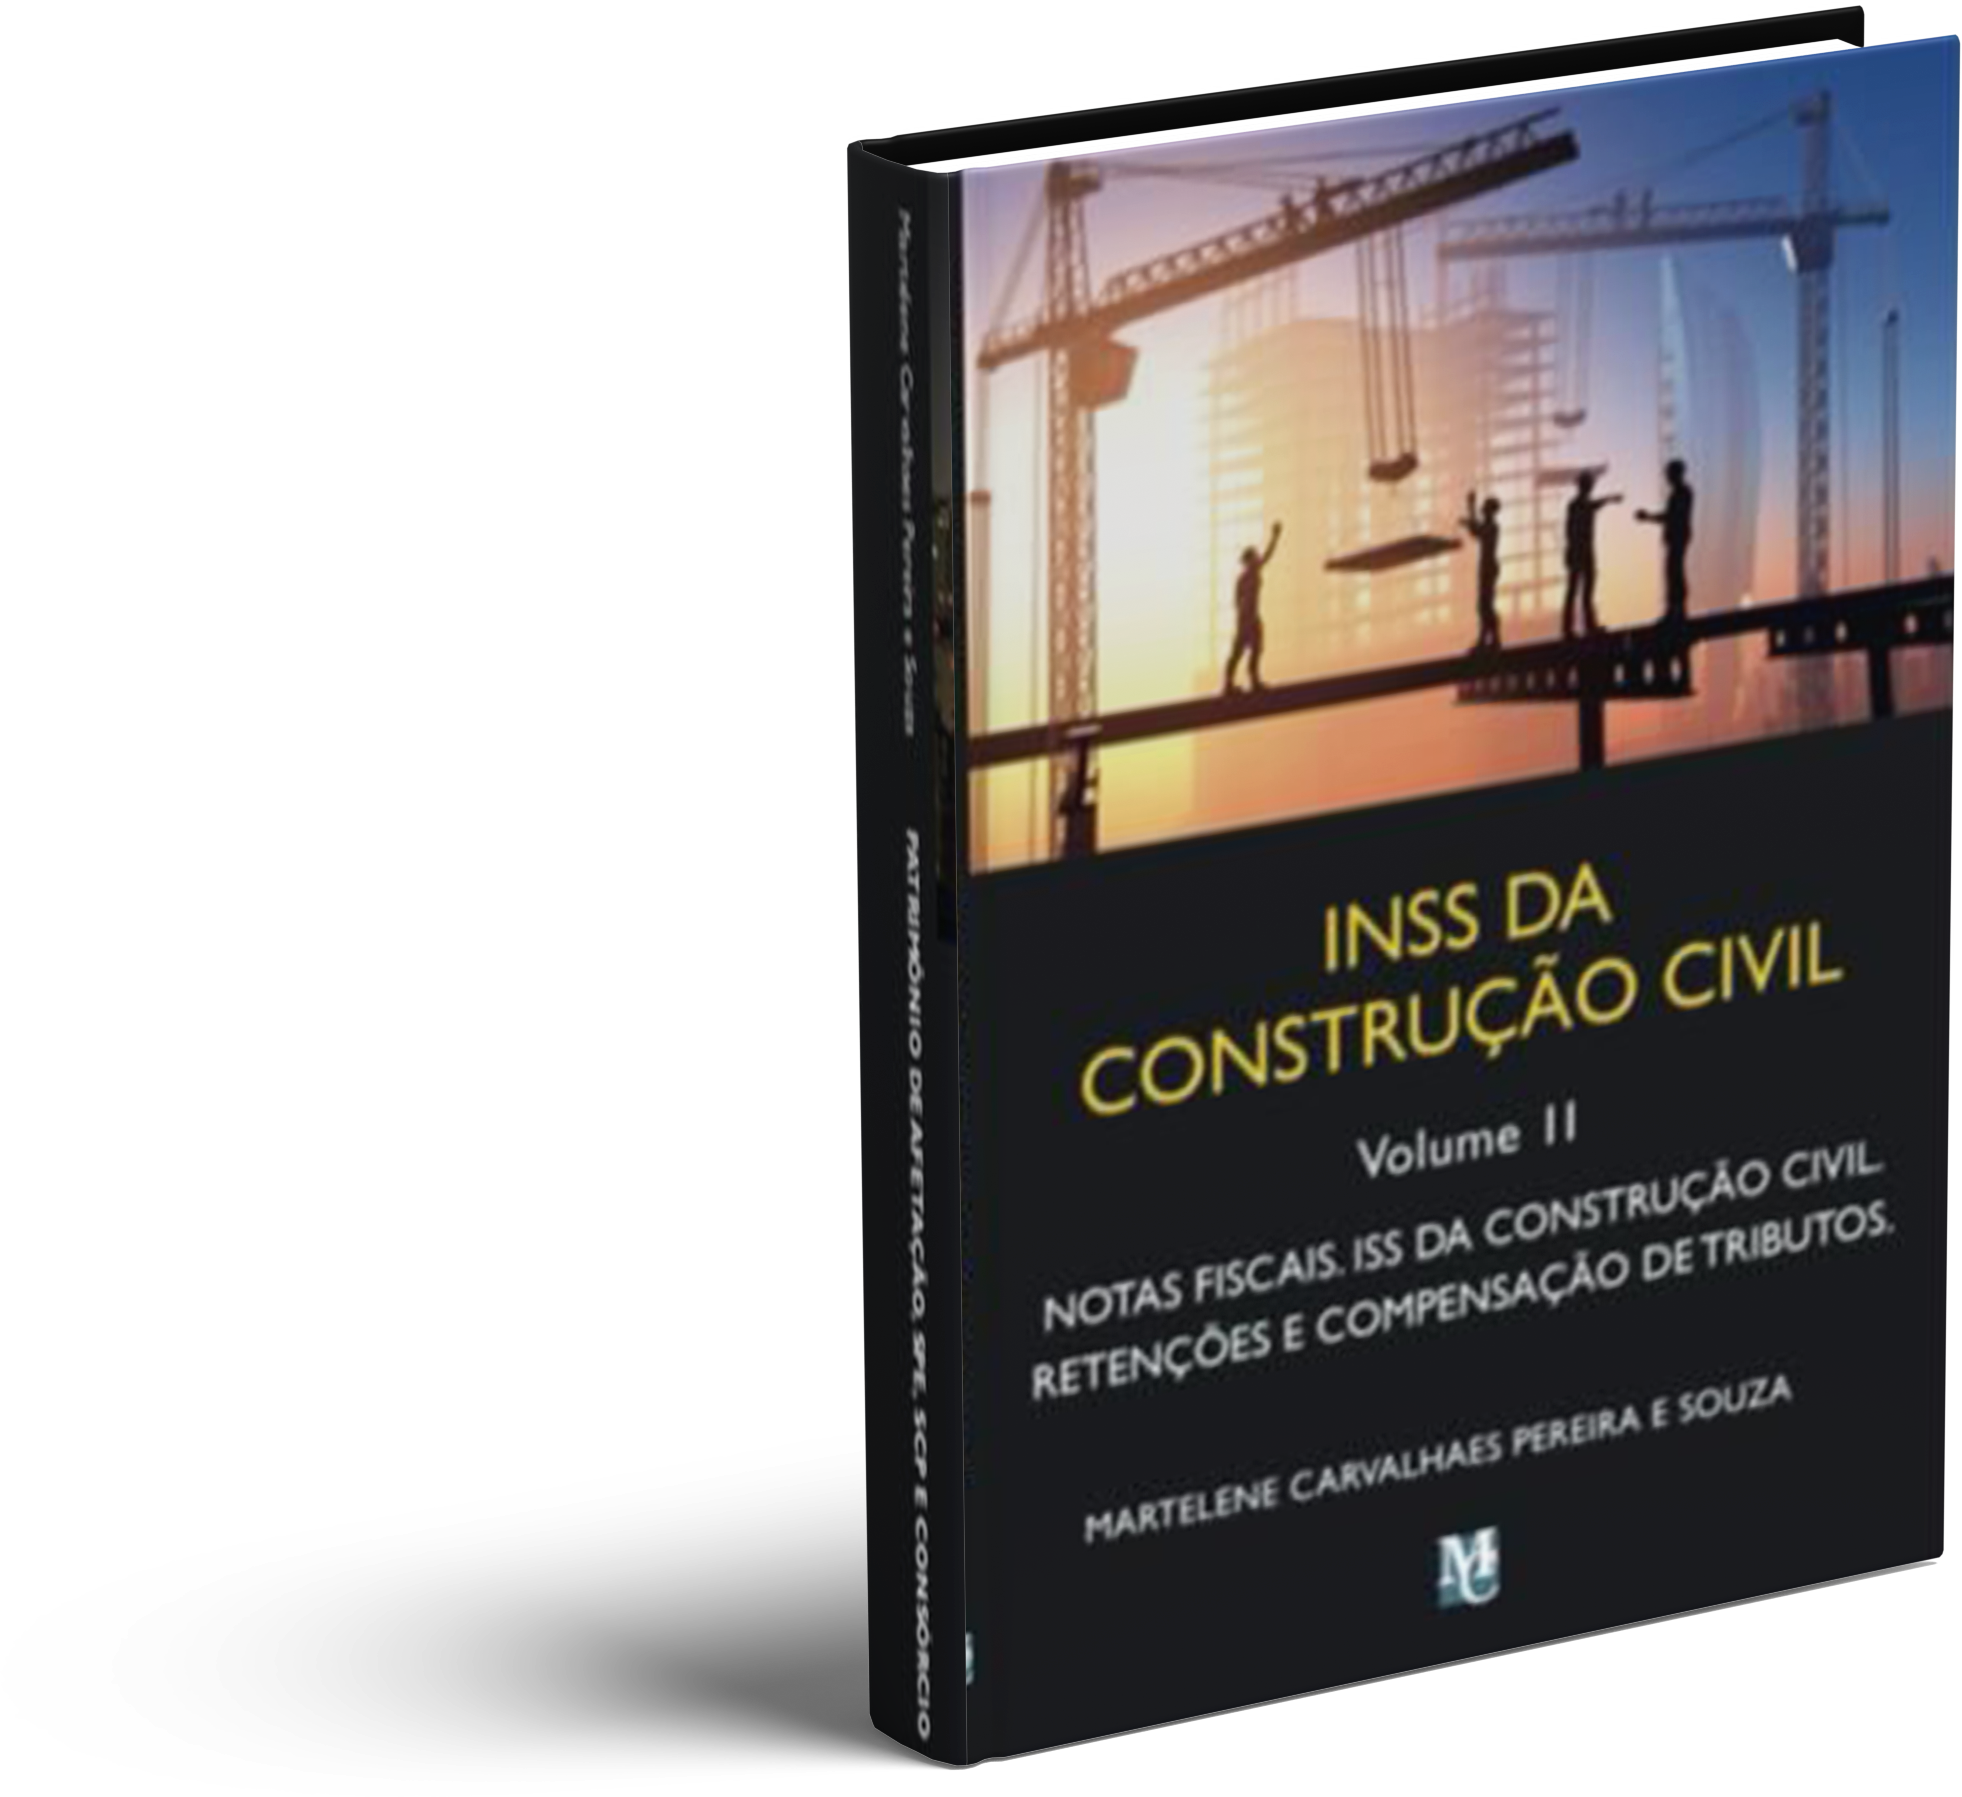
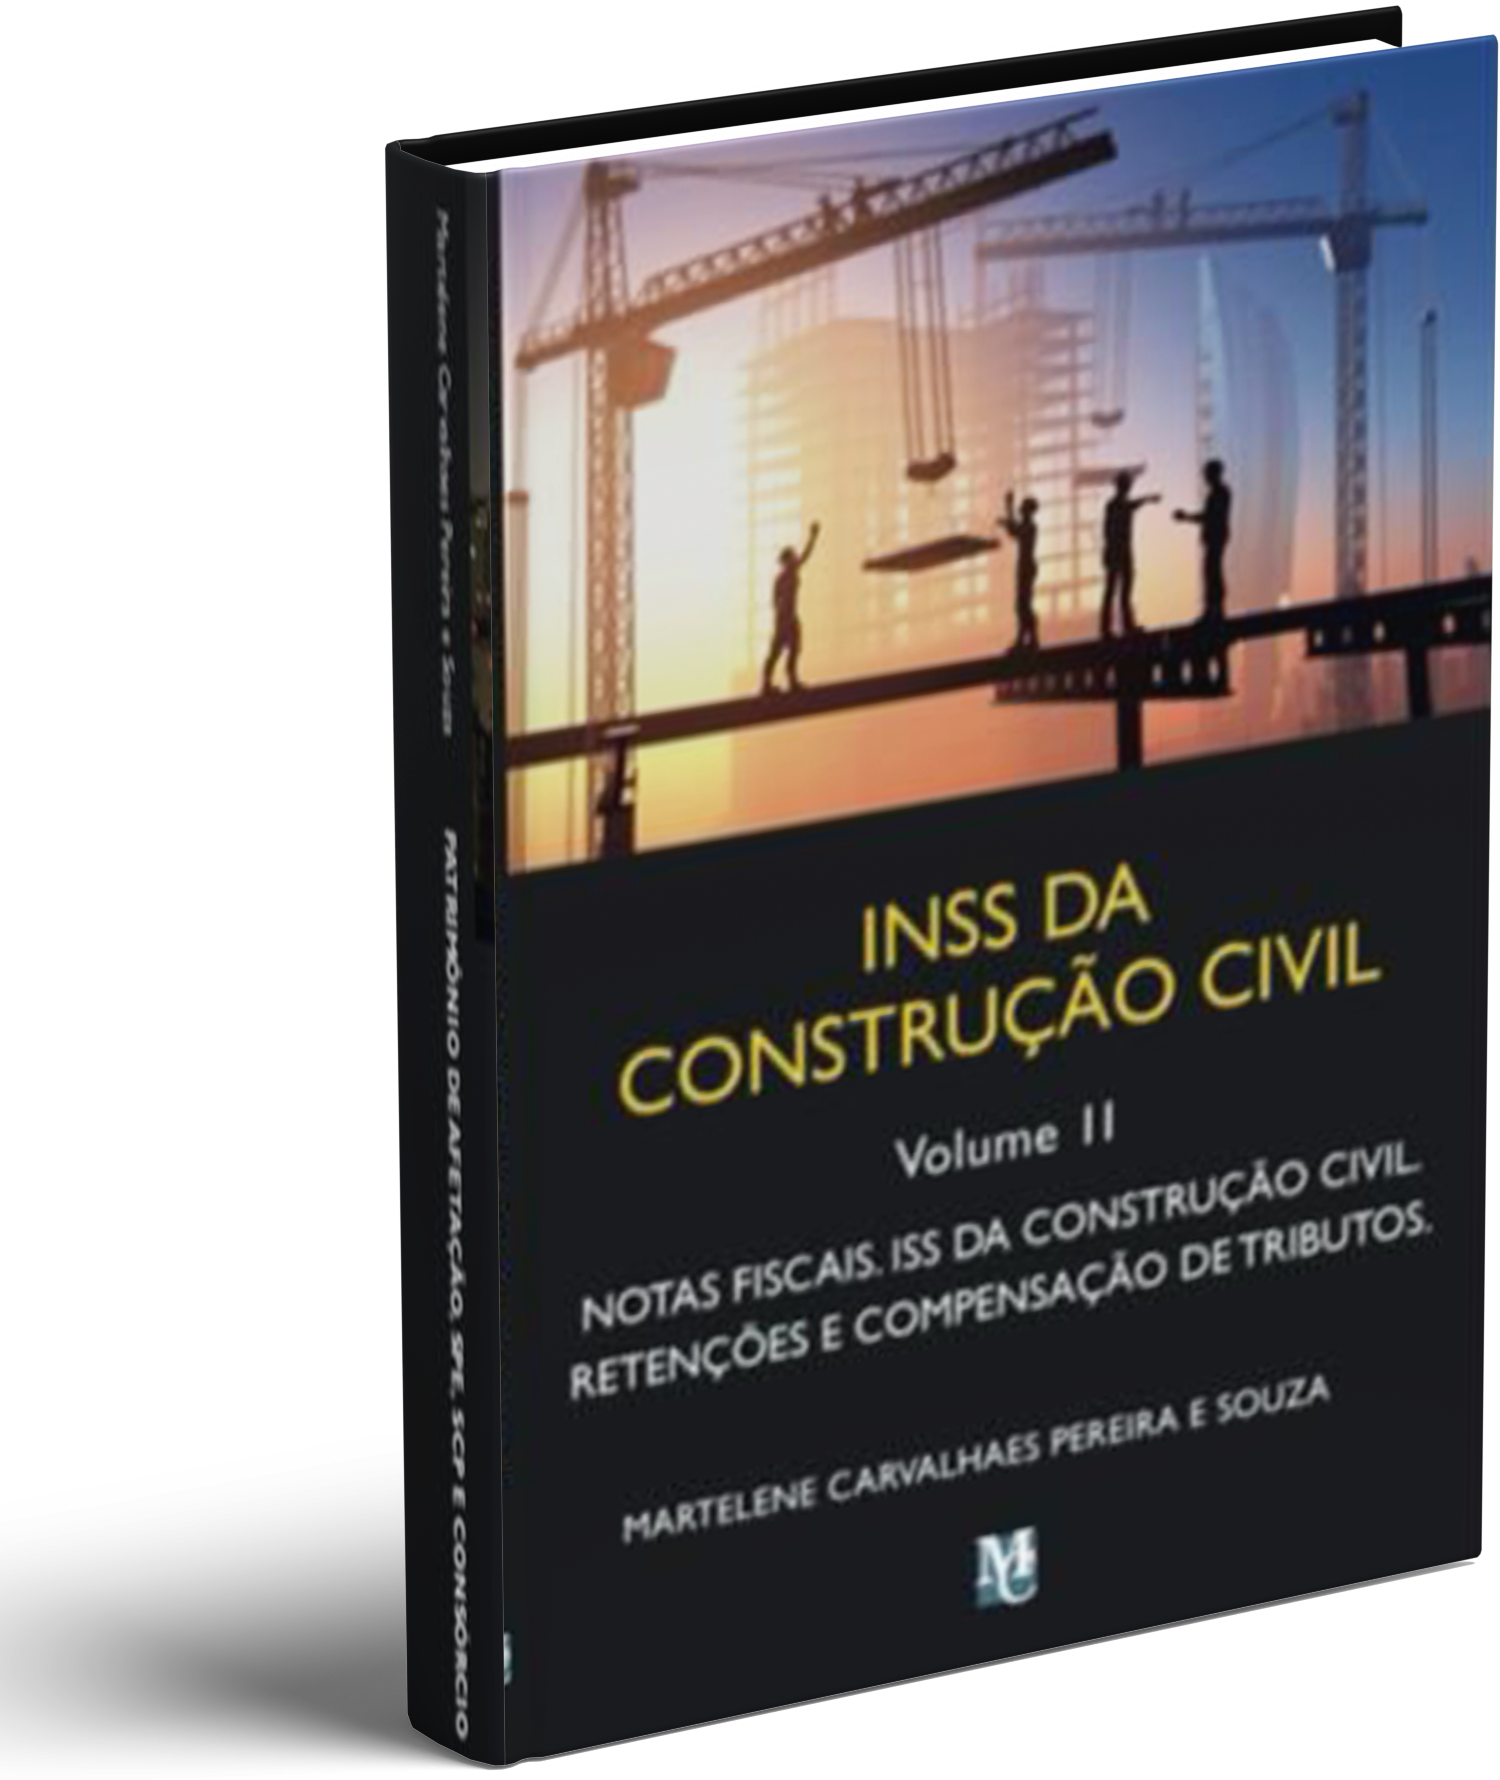
Livros: crop transparencia PNG (livro deslocado a direita) + height auto, alinhar esquerda, aproximar do titulo Volume

diff --git a/index.html b/index.html
@@ -1442,12 +1442,12 @@ p{margin:0 0 1em}
   max-width:1040px;margin:0 auto 36px;align-items:start;justify-items:start;
 }
 .bonus-inline__cover{
-  display:flex;flex-direction:column;align-items:flex-start;gap:8px;
+  display:flex;flex-direction:column;align-items:flex-start;gap:4px;
   transition:transform .3s ease;width:100%;max-width:300px;
 }
 .bonus-inline__cover:hover{transform:translateY(-4px)}
 .bonus-inline__cover-img{
-  width:100%;max-width:240px;height:300px;object-fit:contain;object-position:left center;
+  width:100%;max-width:250px;height:auto;object-fit:contain;object-position:left top;
   display:block;margin:0;background:transparent;
   filter:drop-shadow(0 18px 32px rgba(16,41,50,.32)) drop-shadow(0 6px 12px rgba(16,41,50,.16));
 }
@@ -1465,13 +1465,13 @@ p{margin:0 0 1em}
 }
 @media (max-width:900px){
   .bonus-inline__covers{gap:24px;max-width:100%}
-  .bonus-inline__cover-img{max-width:200px;height:260px}
+  .bonus-inline__cover-img{max-width:200px;height:auto}
 }
 @media (max-width:640px){
   .bonus-inline__covers{
     grid-template-columns:1fr;gap:32px;max-width:320px;
   }
-  .bonus-inline__cover-img{max-width:220px;height:280px}
+  .bonus-inline__cover-img{max-width:220px;height:auto}
   .bonus-inline__cover-label{font-size:.78rem}
   .bonus-inline__cover--left .bonus-inline__cover-img,
   .bonus-inline__cover--right .bonus-inline__cover-img{transform:none}
